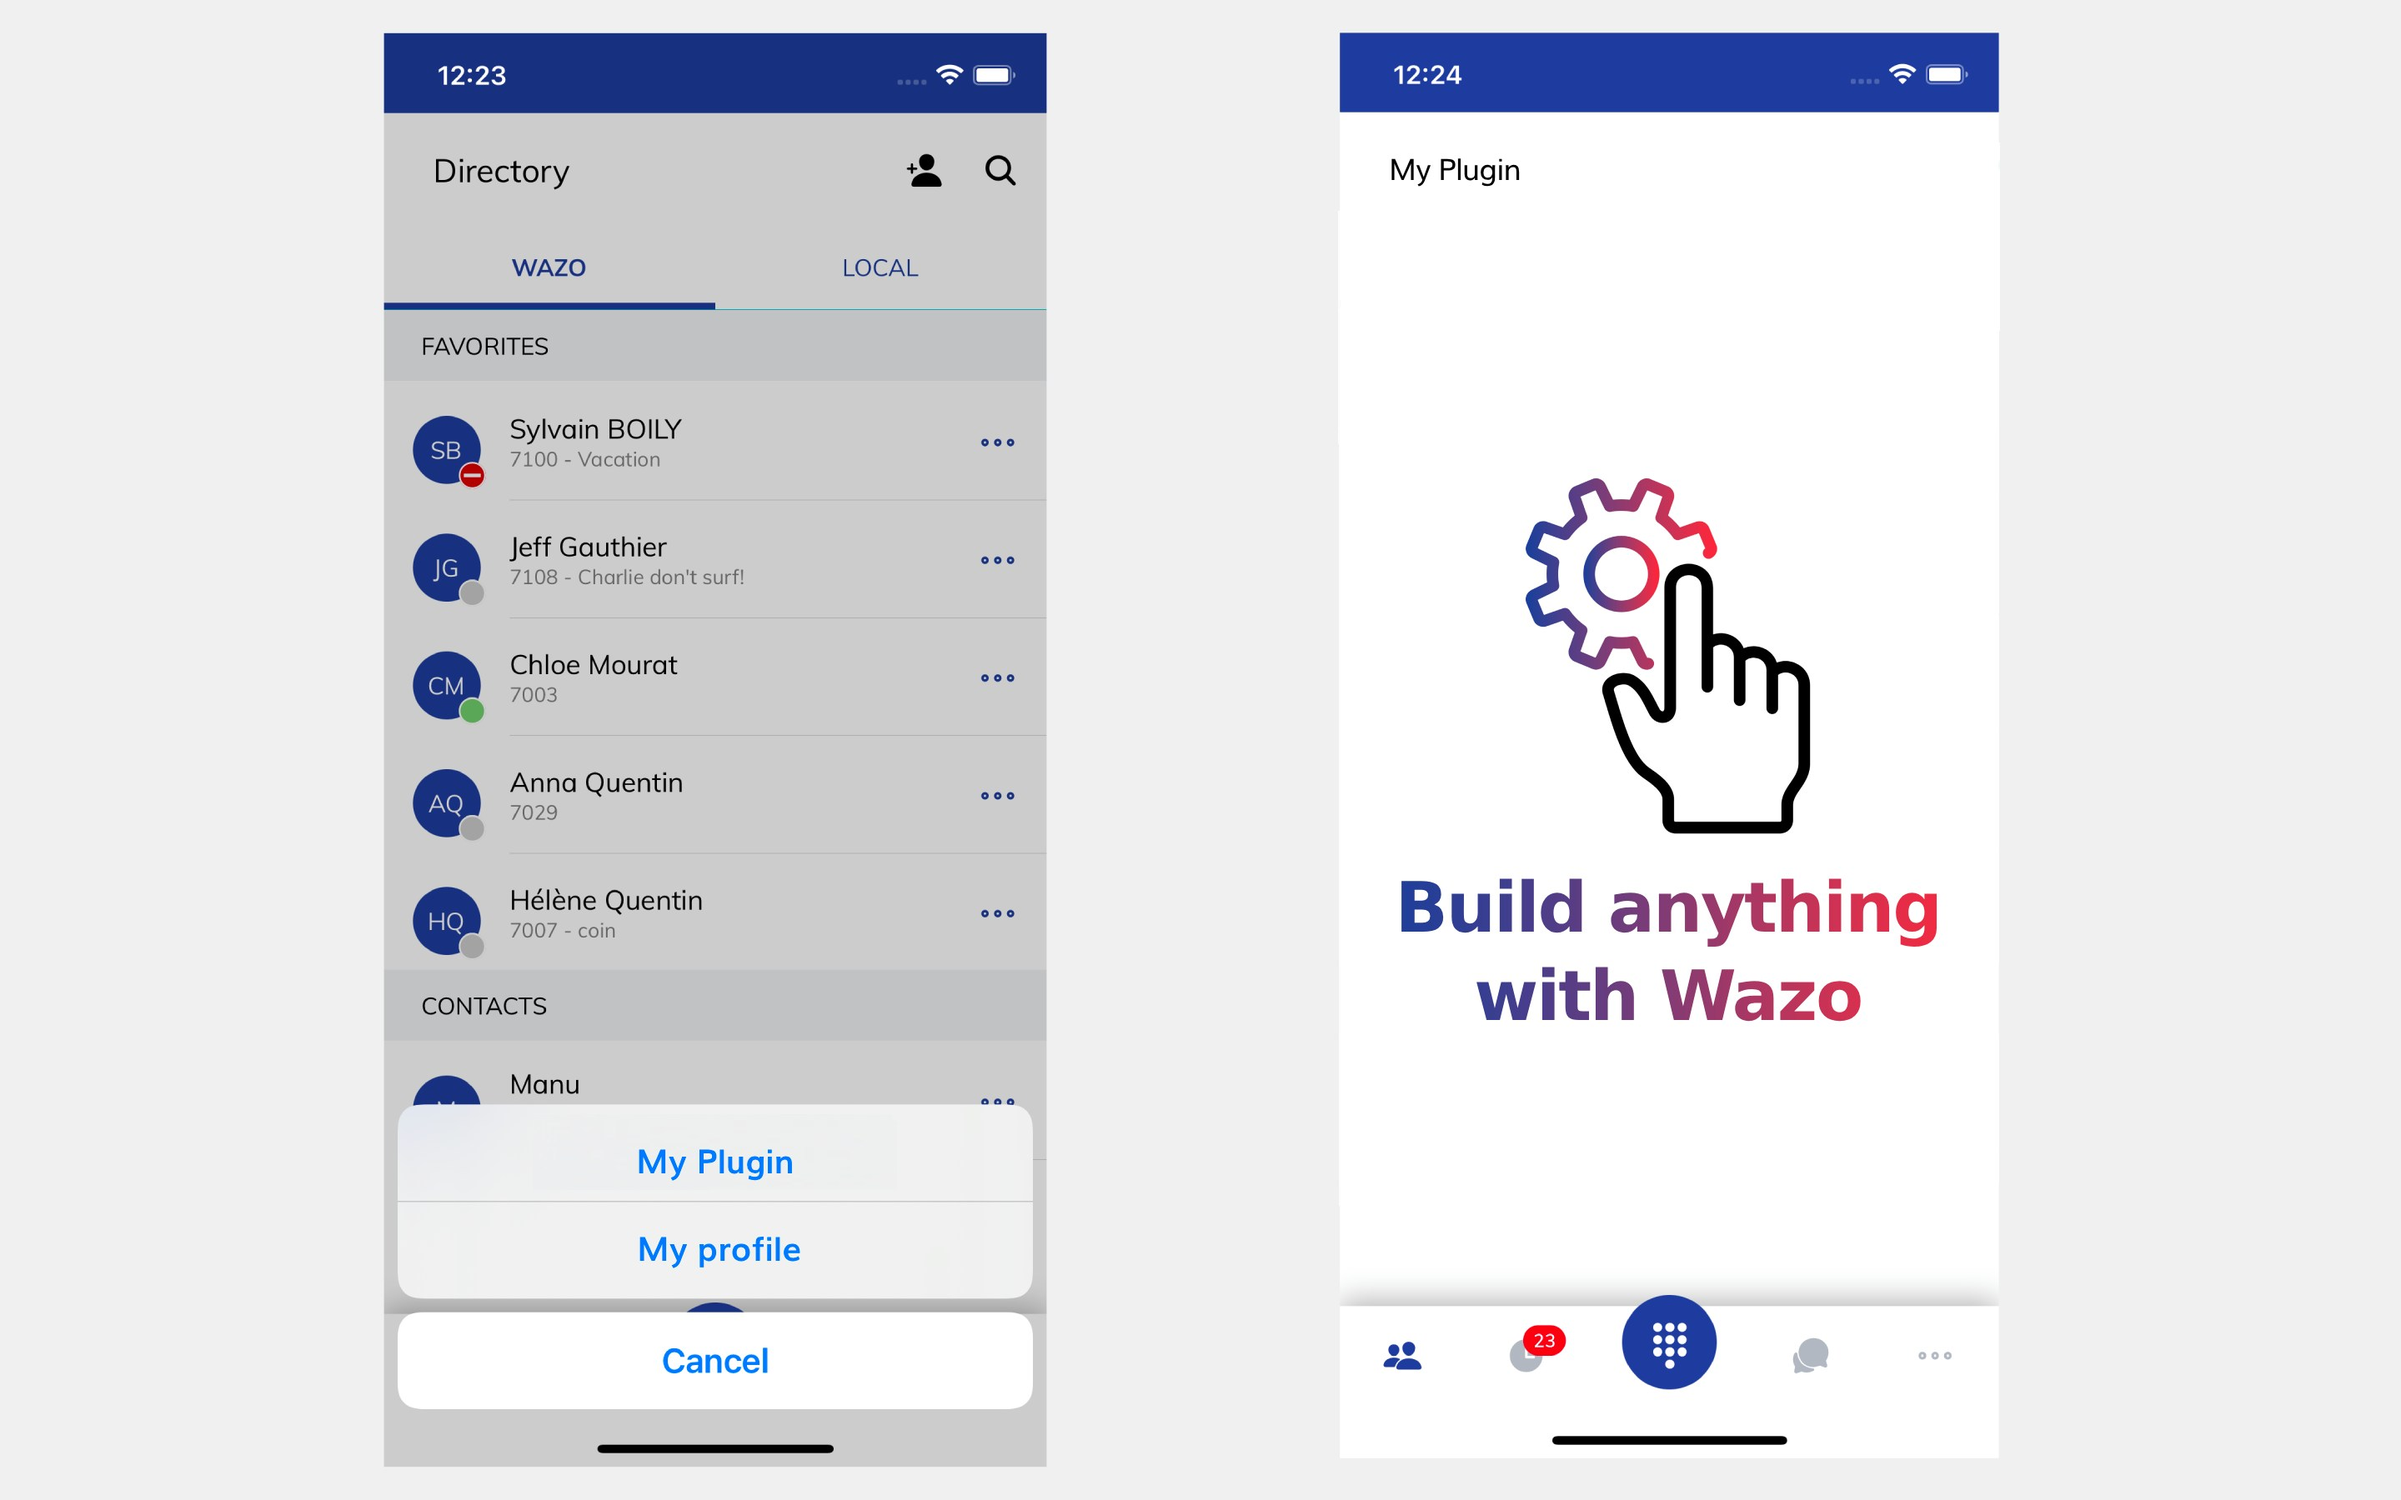
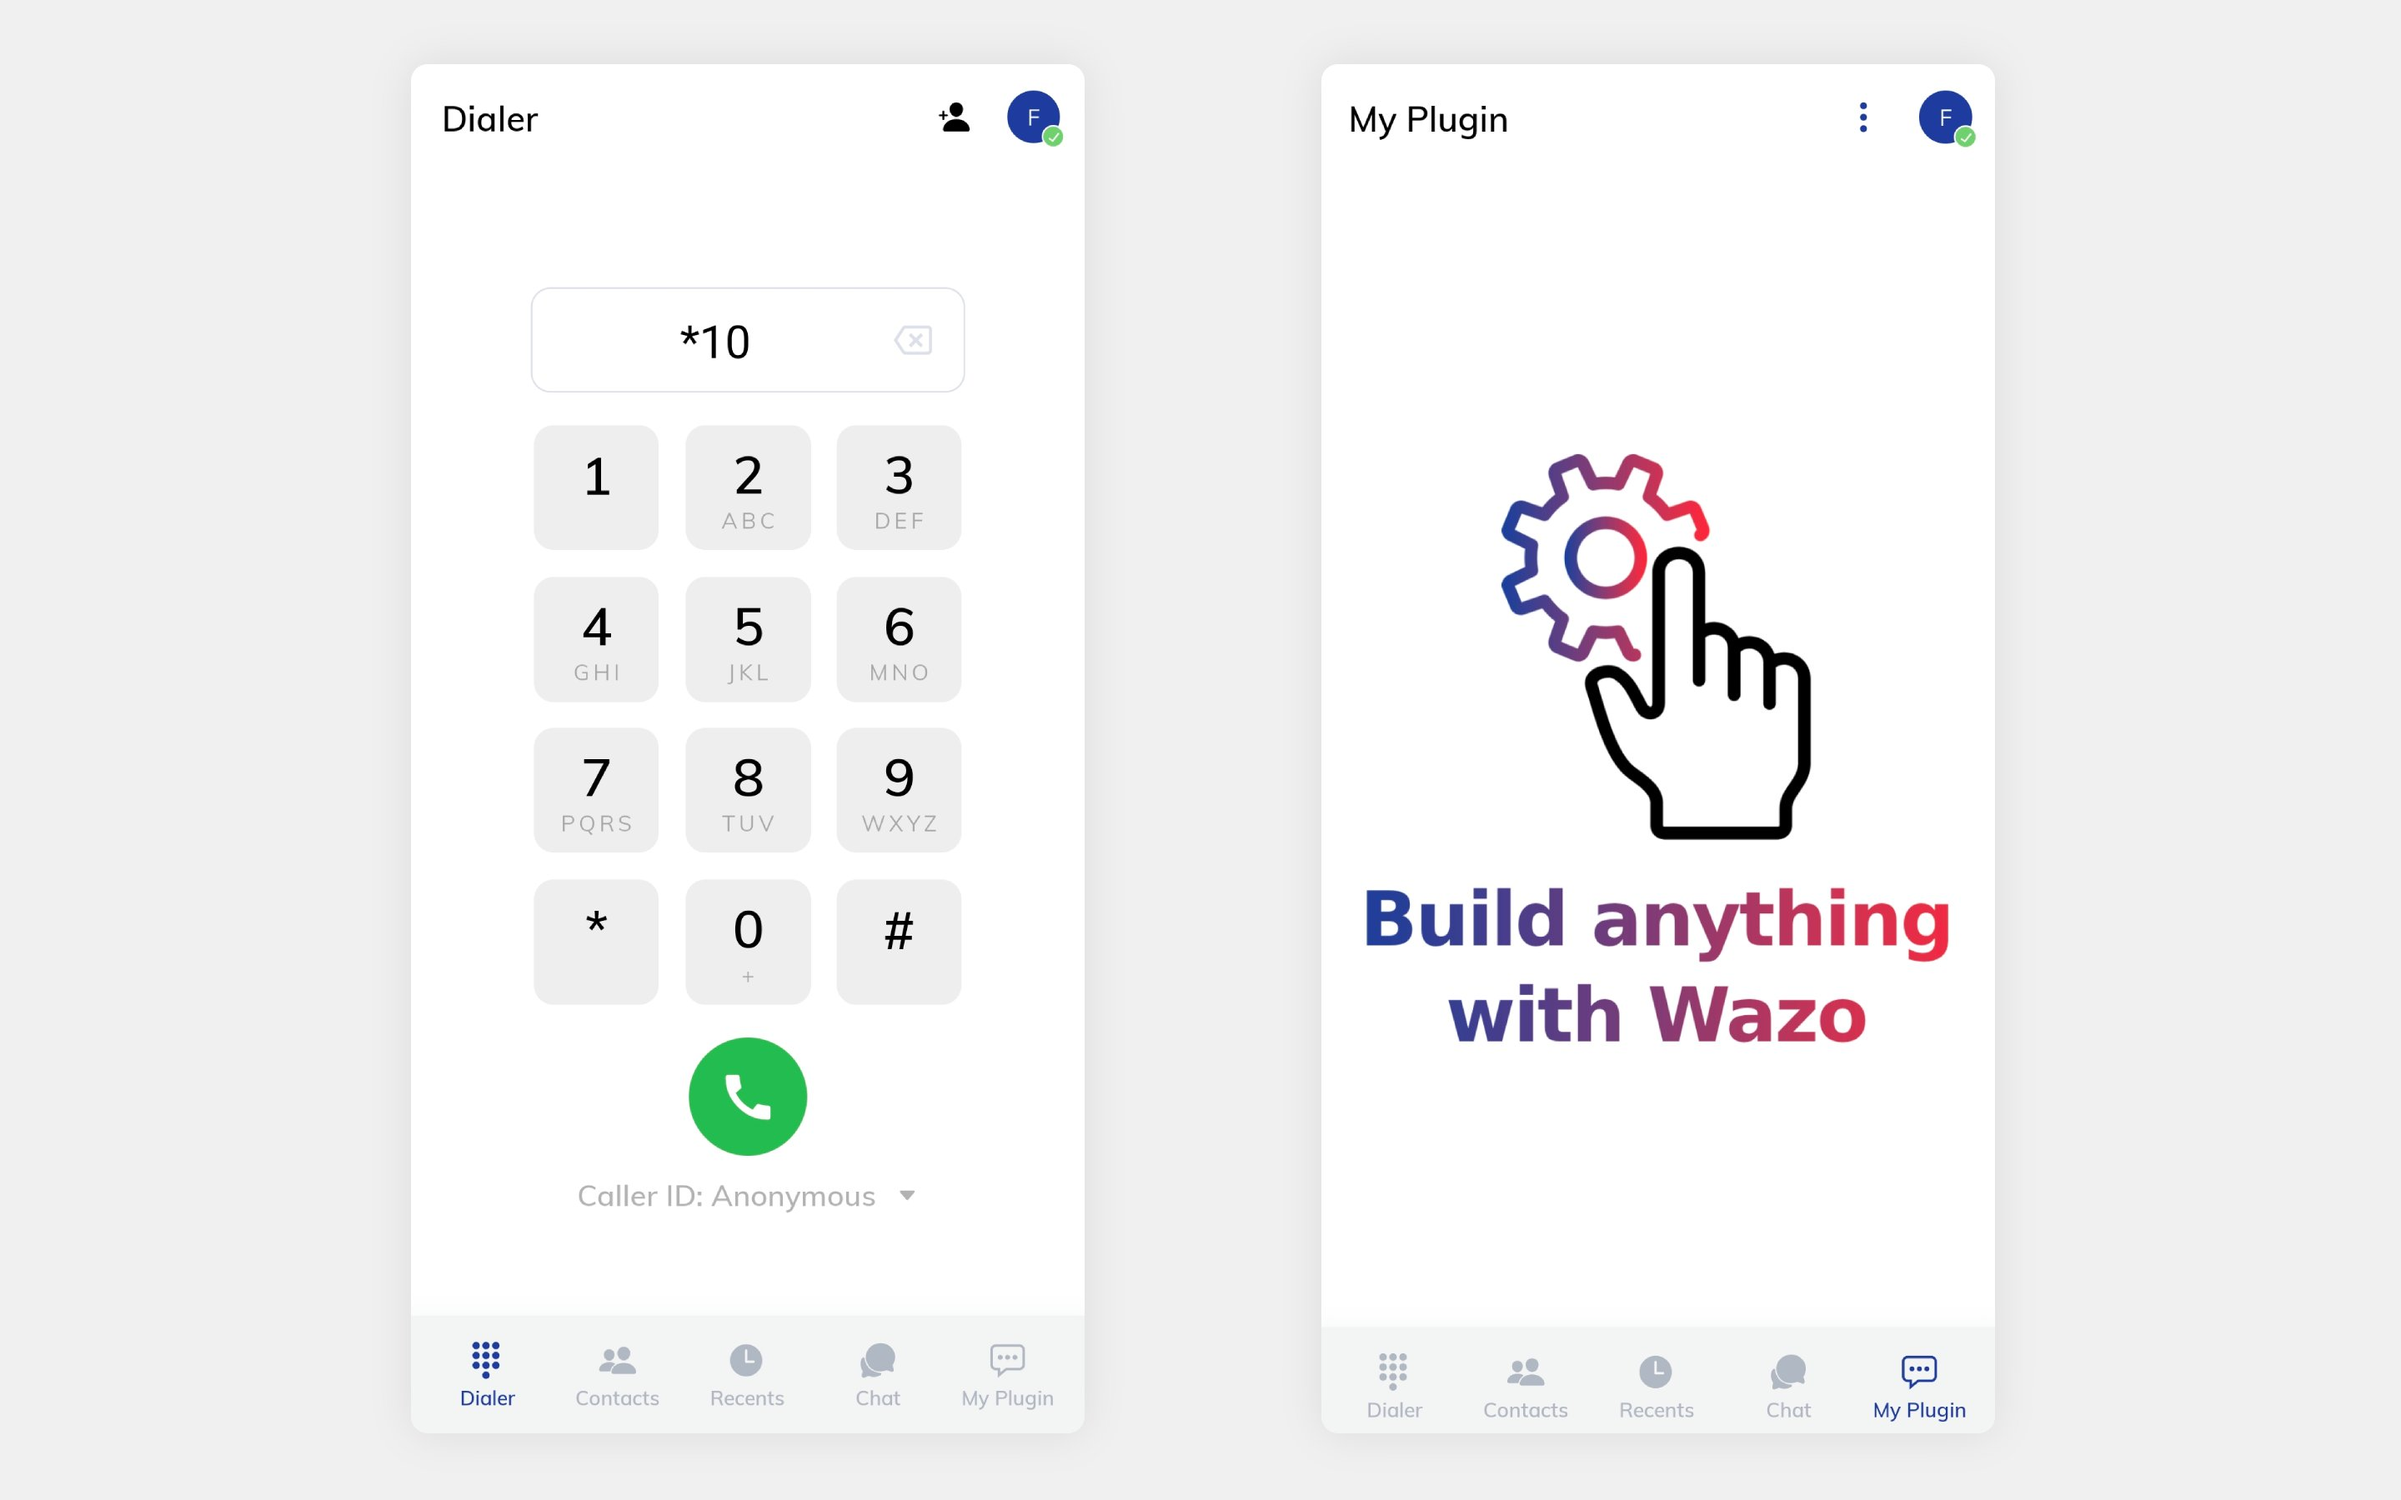
docs: mobile ui update screenshot

diff --git a/src/pages/use-cases.tsx b/src/pages/use-cases.tsx
@@ -81,7 +81,7 @@ export const PROVISIONING: UseCase = {
   title: 'Create a Provisioning Plugin',
   imageSrc: require('@site/static/img/use-cases/provisioning.jpg').default,
   Svg: require('@site/static/img/use-cases/provisioning.svg').default,
-  link: './docs/plugins/pbx',
+  link: './docs/plugins/provisioning',
   description: (
     <>
       Extend Wazo Provisioning by adding third-party plugins to support new devices, customize phone

diff --git a/src/css/custom.css b/src/css/custom.css
@@ -78,7 +78,7 @@ footer.footer--dark {
   background-color: #262829;
 }
 
-img[alt*="small"] {
+img[alt*="(small)"] {
   width: 50%;
   margin: 0 auto;
   display: block;

diff --git a/docs/plugins/ui/mobile/index.md b/docs/plugins/ui/mobile/index.md
@@ -10,9 +10,20 @@ Mobile plugins allow many great ways to extend the interface. Here's a quick sum
 
 ## Adding tabs in the main page
 
-![App configuration (small)](/img/plugins/ui/mobile/mobile-tab1.png)
-
-![App configuration (small)](/img/plugins/ui/mobile/mobile-tab2.png)
+```mdx-code-block
+<div className="row">
+  <div className="col col--6">
+```
+    ![Mobile Home Plugin (small)](/img/plugins/ui/mobile/mobile-home-plugin-tab.jpg)
+```mdx-code-block
+  </div>
+  <div className="col col--6">
+```
+    ![Mobile Plugin Loaded (small)](/img/plugins/ui/mobile/mobile-plugin-loaded.jpg)
+```mdx-code-block
+  </div>
+</div>
+```
 
 To create a new tab in the main screen, add a `staticTabs` in your manifest with a `mobileTab` context :
 ```json
